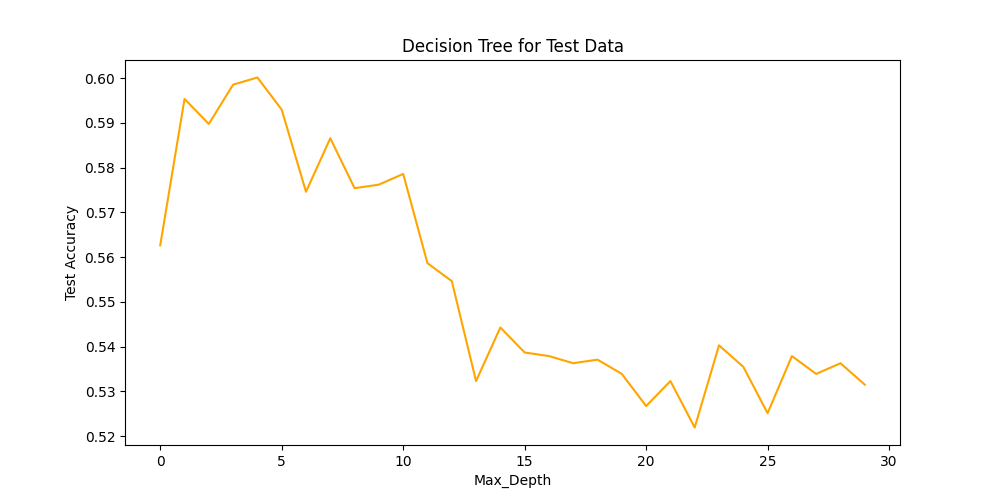
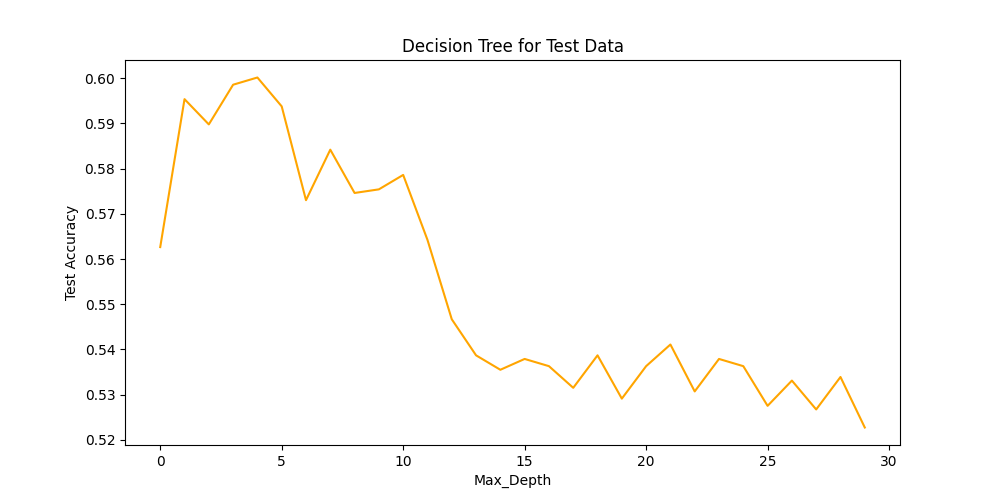
read_data delete and fix the multi class issue

diff --git a/main.py b/main.py
@@ -37,30 +37,6 @@ def importdata():
     data = data.astype("float")
     return data
 
-def read_data():
-    abalone = pd.read_csv("C:/Users/chenr/Desktop/pythonProject/abalone.data", sep=',', header=None)
-    abalone = abalone.values
-    ### combine female and male feature as adult
-    abalone[:, 0] = np.where(abalone[:, 0] == -1, 0, 1)
-    ### clean 0 data in this dataset
-    for i in range(1, abalone.shape[1]):
-        abalone = np.delete(abalone, abalone[:, i] == 0, axis=0)
-
-    ### treat the output part by label code which means 0-7 years as 1, 8-10 years as 2, and so on
-    for j in range(abalone.shape[0]):
-        mid = abalone[j, -1]
-        if mid < 8:
-            abalone[j, -1] = 1
-        elif mid < 11:
-            abalone[j, -1] = 2
-        elif mid < 16:
-            abalone[j, -1] = 3
-        else:
-            abalone[j, -1] = 4
-    ### change to float data type
-    abalone = abalone.astype("float")
-
-    return (abalone)
 
 def autolabel(rects):
     for rect in rects:
@@ -68,7 +44,9 @@ def autolabel(rects):
         plt.text(rect.get_x()+rect.get_width()/2.-0.08, 1.03*height, '%s' % int(height), size=10, family="Times new roman")
 
 
-def multi_class(data, class_name):
+def multi_class( class_name):
+    data = pd.read_csv('C:/Users/chenr/Desktop/UNSW_NATH5836_A3/abalone.data')
+    data = data.values
     # data_classified = data[8]
     # df_data_classified = pd.DataFrame(data_classified)
     df_data = pd.DataFrame(data)
@@ -106,7 +84,7 @@ def tree_make(X_train,y_train):
     detree = decision_tree.fit(X_train, y_train)
 
     from sklearn.tree import plot_tree
-    plt.figure(figsize=(25, 10))
+    plt.figure(figsize=(90, 15))
     plot_tree(detree,
               feature_names=['Sex', 'Length', 'Diameter', 'Height', 'Whole weight', 'Shucked weight', 'Viscera weight',
                              'Shell weight'],
@@ -157,11 +135,11 @@ def post_pruning(decision_tree,X_train, X_test, y_train, y_test):
         clf = DecisionTreeClassifier(random_state=0, ccp_alpha=ccp_alpha)
         clf.fit(X_train, y_train)
         clfs.append(clf)
-    print(
-        "Number of nodes in the last tree is: {} with ccp_alpha: {}".format(
-            clfs[-1].tree_.node_count, ccp_alphas[-1]
-        )
-    )
+    # print(
+    #     "Number of nodes in the last tree is: {} with ccp_alpha: {}".format(
+    #         clfs[-1].tree_.node_count, ccp_alphas[-1]
+    #     )
+    # )
     clfs = clfs[:-1]
     ccp_alphas = ccp_alphas[:-1]
 
@@ -198,7 +176,7 @@ def main():
 
     # create multiiclass
     class_name = ['0-7', '8-10', '10-15','>15']
-    multi_class(data, class_name)
+    multi_class(class_name)
 
     # create decision tree
     X_train, X_test, y_train, y_test = splitdataset(data)
